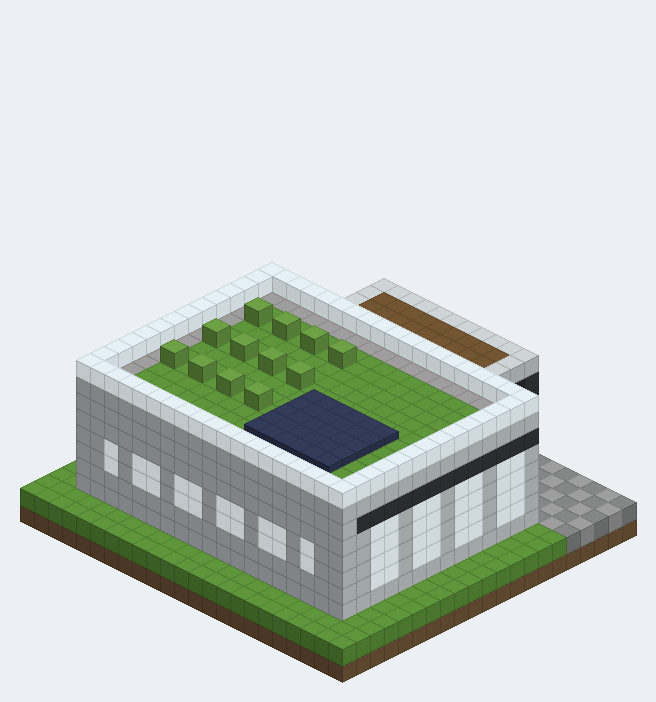
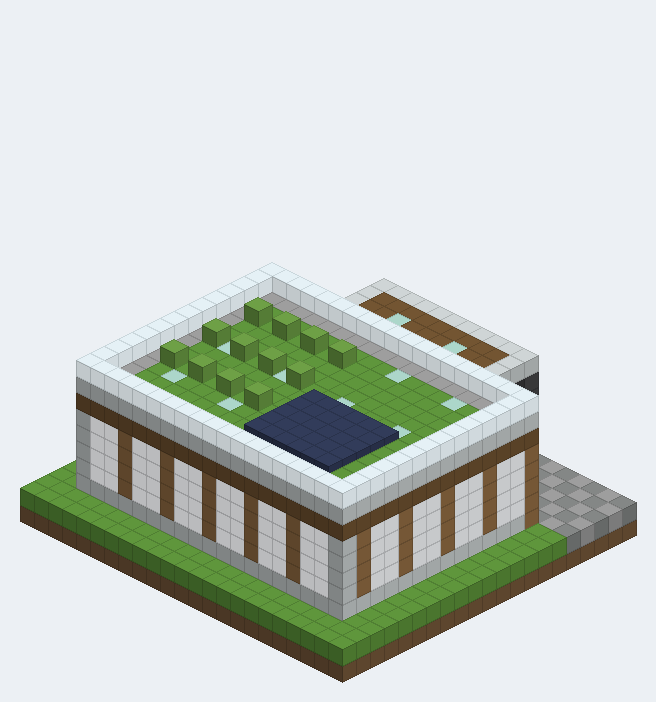
Use the full Neoterra palette on every level
Levels 1-2 now use tinted glass, polished deepslate, quartz and Domum
Ornamentum pieces like the higher levels (EARLY_GAME_MATERIALS switch kept).

Claude-Session: https://claude.ai/code/session_01HWXe5nQRHGG7eX2eiwshR9

diff --git a/tools/blueprints/neoterra/common.py b/tools/blueprints/neoterra/common.py
@@ -179,6 +179,11 @@ def connect_panes(bp: Blueprint):
 
 
 # ----------------------------------------------------------------------------- Neoterra style
+# When True, levels 1-2 avoid Nether/End and Domum Ornamentum blocks (cheaper early builds).
+# Off by request: every level uses the full Neoterra palette.
+EARLY_GAME_MATERIALS = False
+
+
 class Style:
     """Neoterra materials by building level (modern architecture ~20 years from now).
 
@@ -188,7 +193,7 @@ class Style:
 
     def __init__(self, level: int):
         self.level = level
-        self.early = level <= 2
+        self.early = EARLY_GAME_MATERIALS and level <= 2
         self.WHITE = "white_concrete"
         self.LIGHTGRAY = "light_gray_concrete"
         self.GLASS = "glass" if self.early else "light_gray_stained_glass"
@@ -199,7 +204,7 @@ class Style:
         self.DECK = "spruce_planks"
         self.SEAT = "spruce_stairs"
         self.LEAVES = "azalea_leaves[distance=1,persistent=true,waterlogged=false]"
-        self.railing = "glass_pane" if level == 1 else do_paperwall("gray_concrete", "glass")
+        self.railing = "glass_pane" if self.early and level == 1 else do_paperwall("gray_concrete", "glass")
         self.counter = ("smooth_stone_slab[type=top,waterlogged=false]" if self.early
                         else do_slab("white_concrete", "top"))
 

diff --git a/tools/blueprints/neoterra/townhall.py b/tools/blueprints/neoterra/townhall.py
@@ -29,7 +29,7 @@ from pathlib import Path
 
 sys.path.insert(0, str(Path(__file__).resolve().parent))
 from common import (  # noqa: E402
-    Blueprint, Spec, put, hut_te, dist, toward_center, angle, connect_panes,
+    Blueprint, Spec, Style, put, hut_te, dist, toward_center, angle, connect_panes,
     do_slab, do_stairs, do_pillar, do_paperwall, do_light,
 )
 
@@ -45,7 +45,7 @@ TUBE = (C, C + 10)                              # elevator water column (x, z)
 def build(level: int) -> Blueprint:
     L = level
     bp = Blueprint(SX, SY, SZ, f"townhall{L}.blueprint")
-    early = L <= 2
+    early = Style(L).early
 
     # ---------------------------------------------------------------- materials
     WHITE = "white_concrete"
@@ -57,7 +57,7 @@ def build(level: int) -> Blueprint:
     LEAVES = "azalea_leaves[distance=1,persistent=true,waterlogged=false]"
     CORE = "light_gray_concrete" if early else WHITE
     SEAT = "spruce_stairs"
-    railing = "glass_pane" if L == 1 else do_paperwall("gray_concrete", "glass")
+    railing = Style(L).railing
 
     def tree(x, y, z, h=3):
         """Small street/roof-garden tree: timber trunk + leaf crown."""

diff --git a/README.md b/README.md
@@ -24,8 +24,9 @@ Copy `stylepacks/Neoterra` into `.minecraft/blueprints/` (so you get
 | 5 Landmark | Vertical timber sun-shading fins, roof garden with trees, antenna mast | **Glass-floored skywalk** off the roof deck, ~40 blocks up (doubles as an elytra launch) |
 
 Approximate blocks: L1 ≈ 3.8k, L2 ≈ 5.1k, L3 ≈ 7.6k, L4 ≈ 9.0k, L5 ≈ 9.4k (mostly concrete, glass and spruce).
-Levels 1–2 avoid Nether/End materials so they are buildable early; quartz, sea lanterns,
-and polished deepslate start at level 3.
+All levels use the full palette (quartz, sea lanterns, polished deepslate, Domum Ornamentum),
+so even level 1 looks finished. (`EARLY_GAME_MATERIALS` in `common.py` switches levels 1–2 back
+to cheap early-game blocks.)
 
 ### Courier's hut (`craftsmanship/storage/deliveryman1-5`) – 23 × 22 × 21, same footprint every level
 Hut block: `minecolonies:blockhutdeliveryman` (MineColonies calls it the Courier's Hut).
